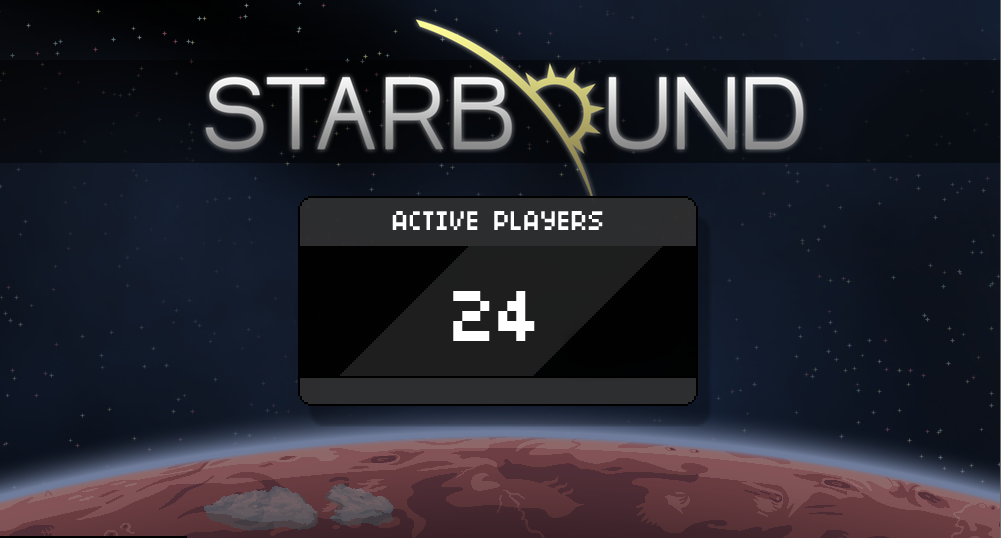
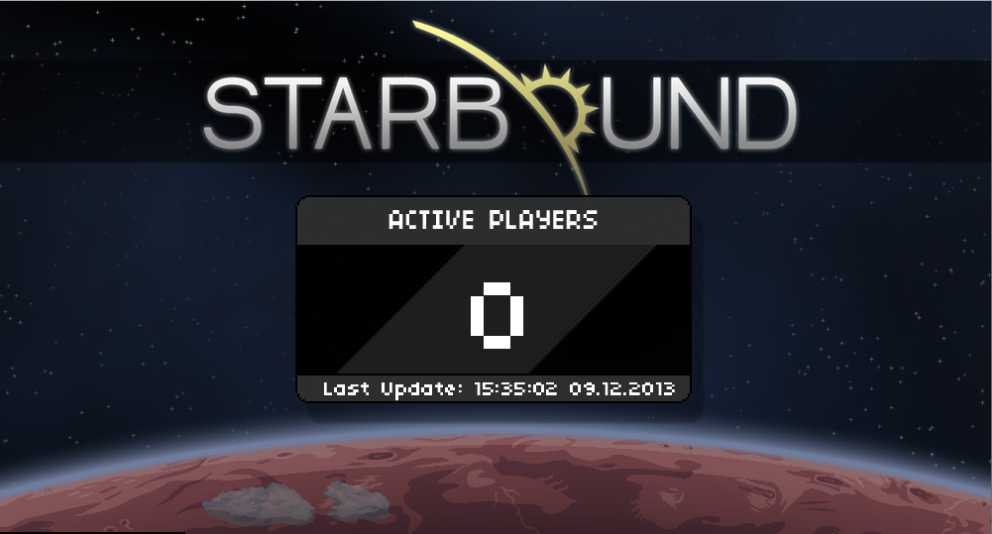
Updated example screenshot

diff --git a/README.md b/README.md
@@ -2,3 +2,9 @@ StarboundUserCount
 ==================
 
 Displays a png of active users on a starbound server
+
+
+Example
+=======
+
+![Server Status](https://raw.github.com/dkesberg/StarboundUserCount/master/app/storage/backgrounds/demo.png)
